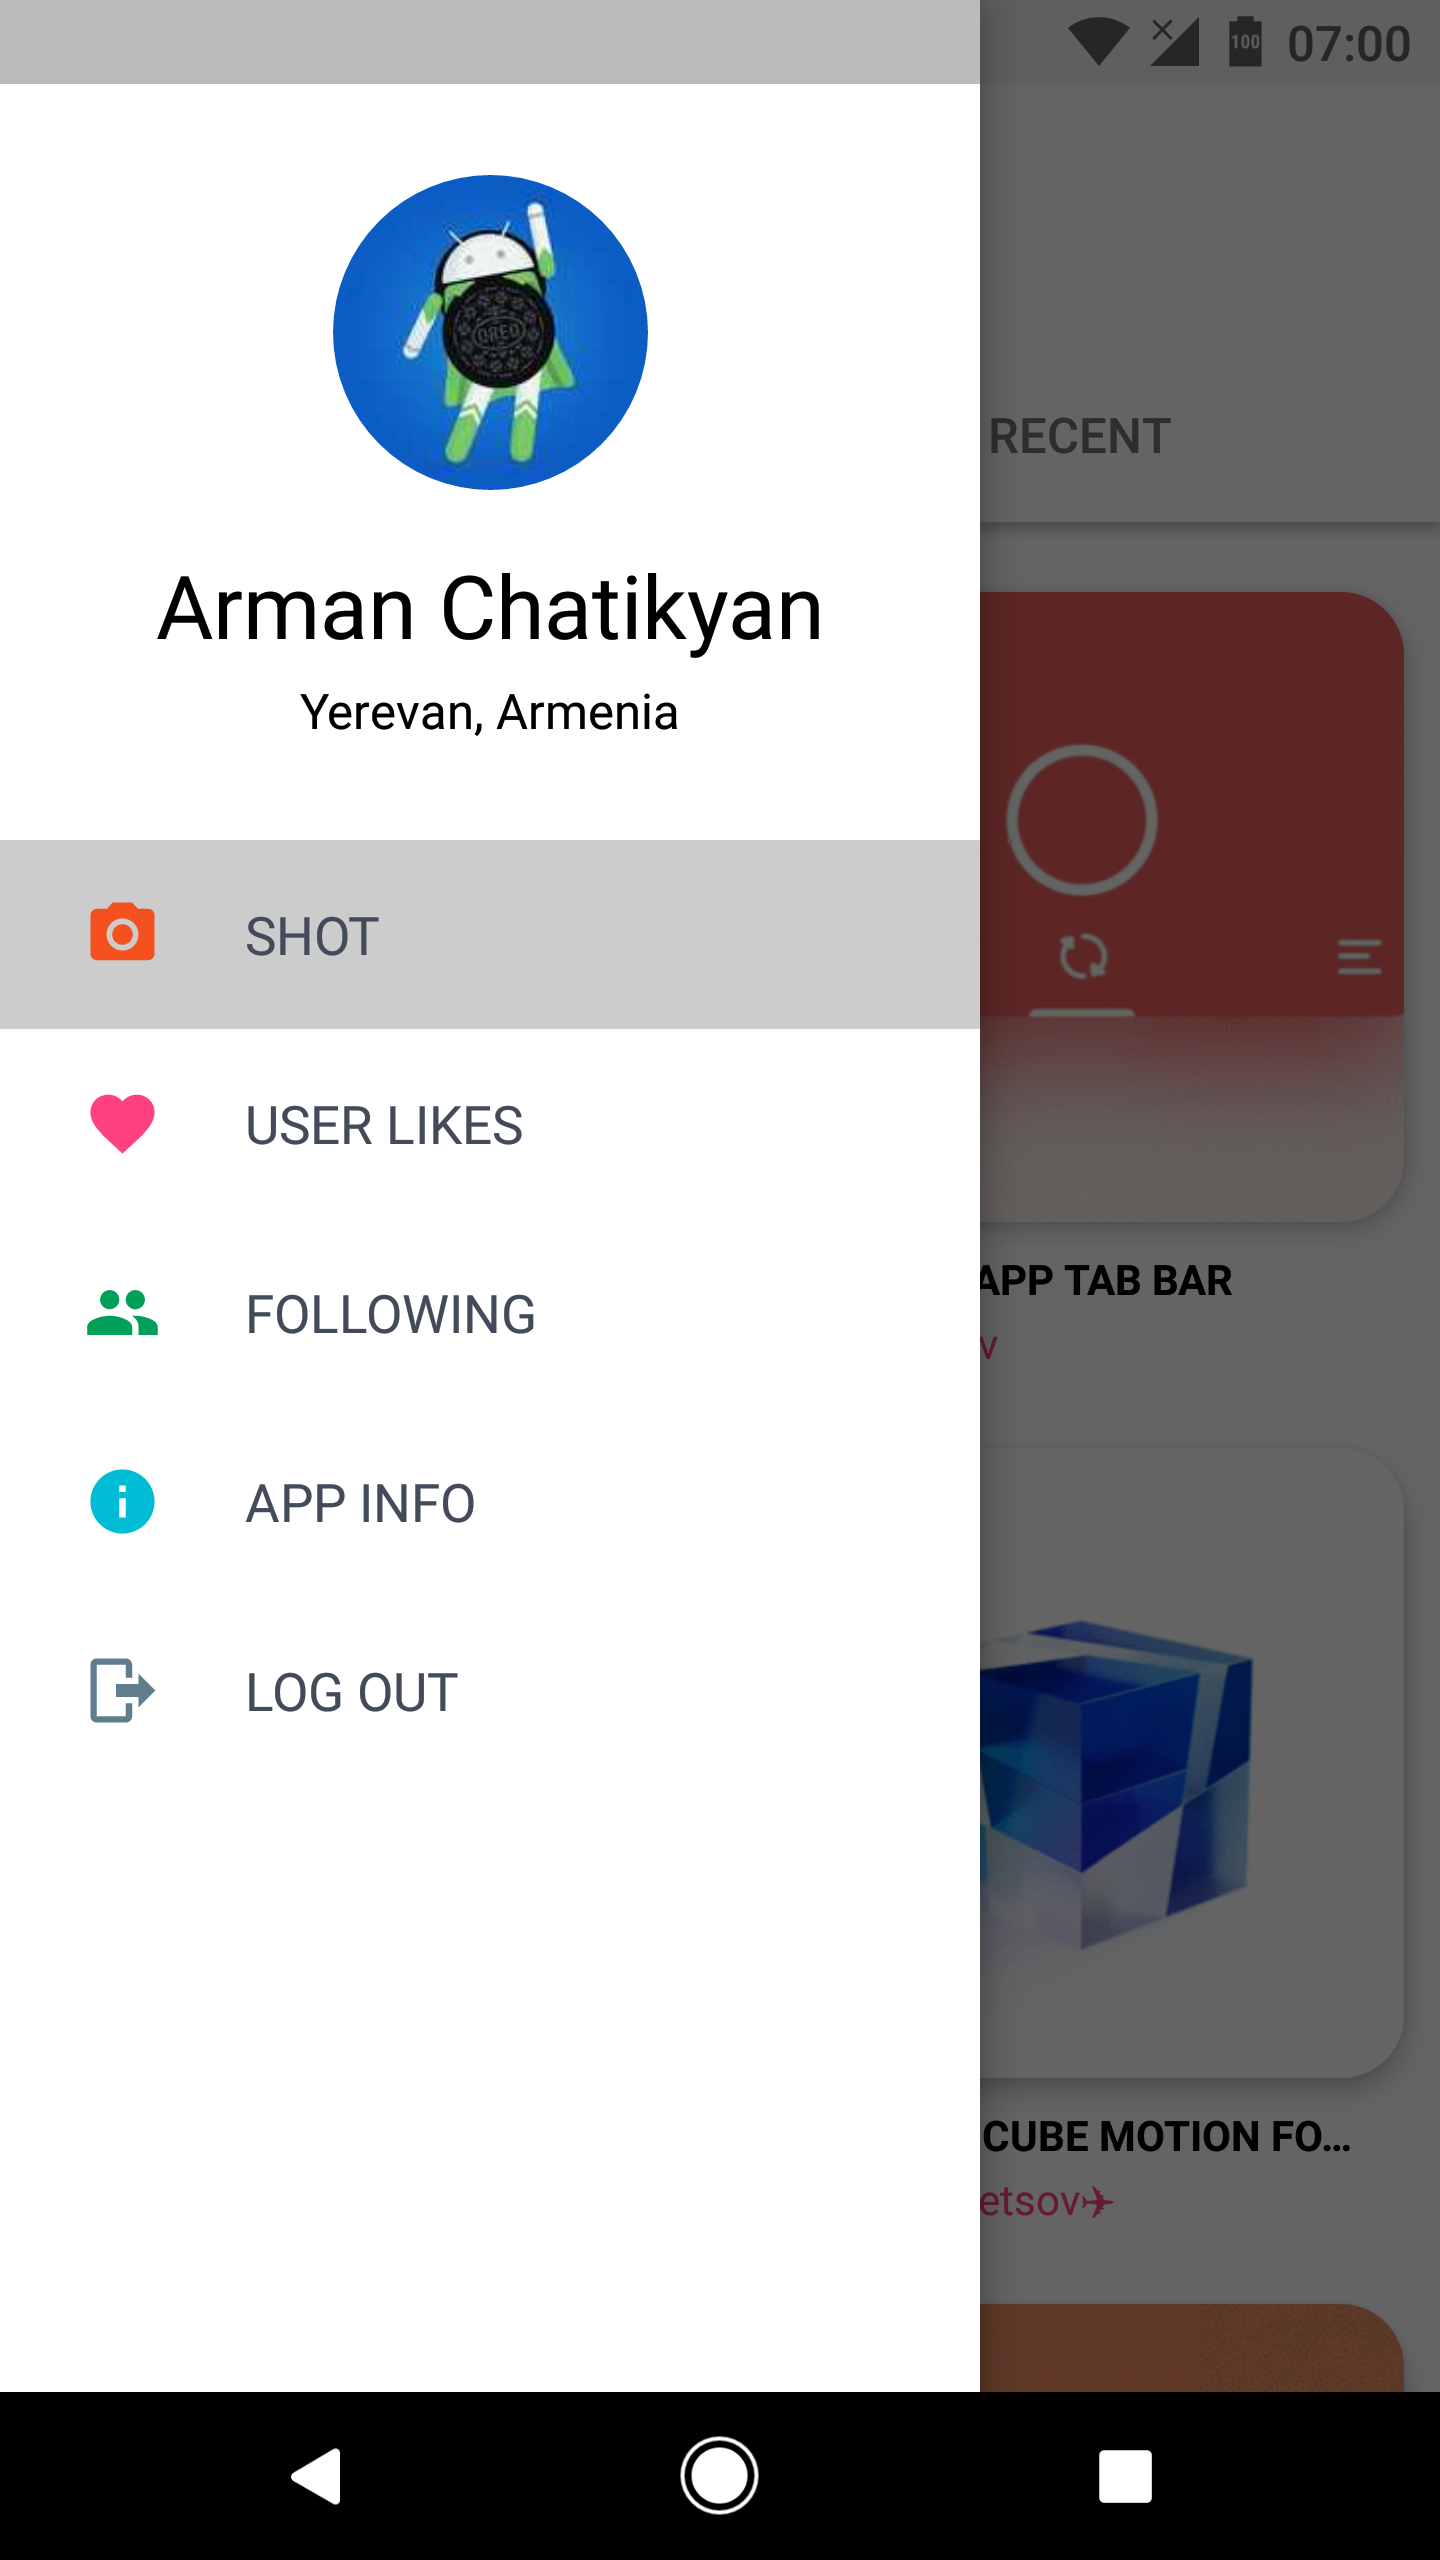
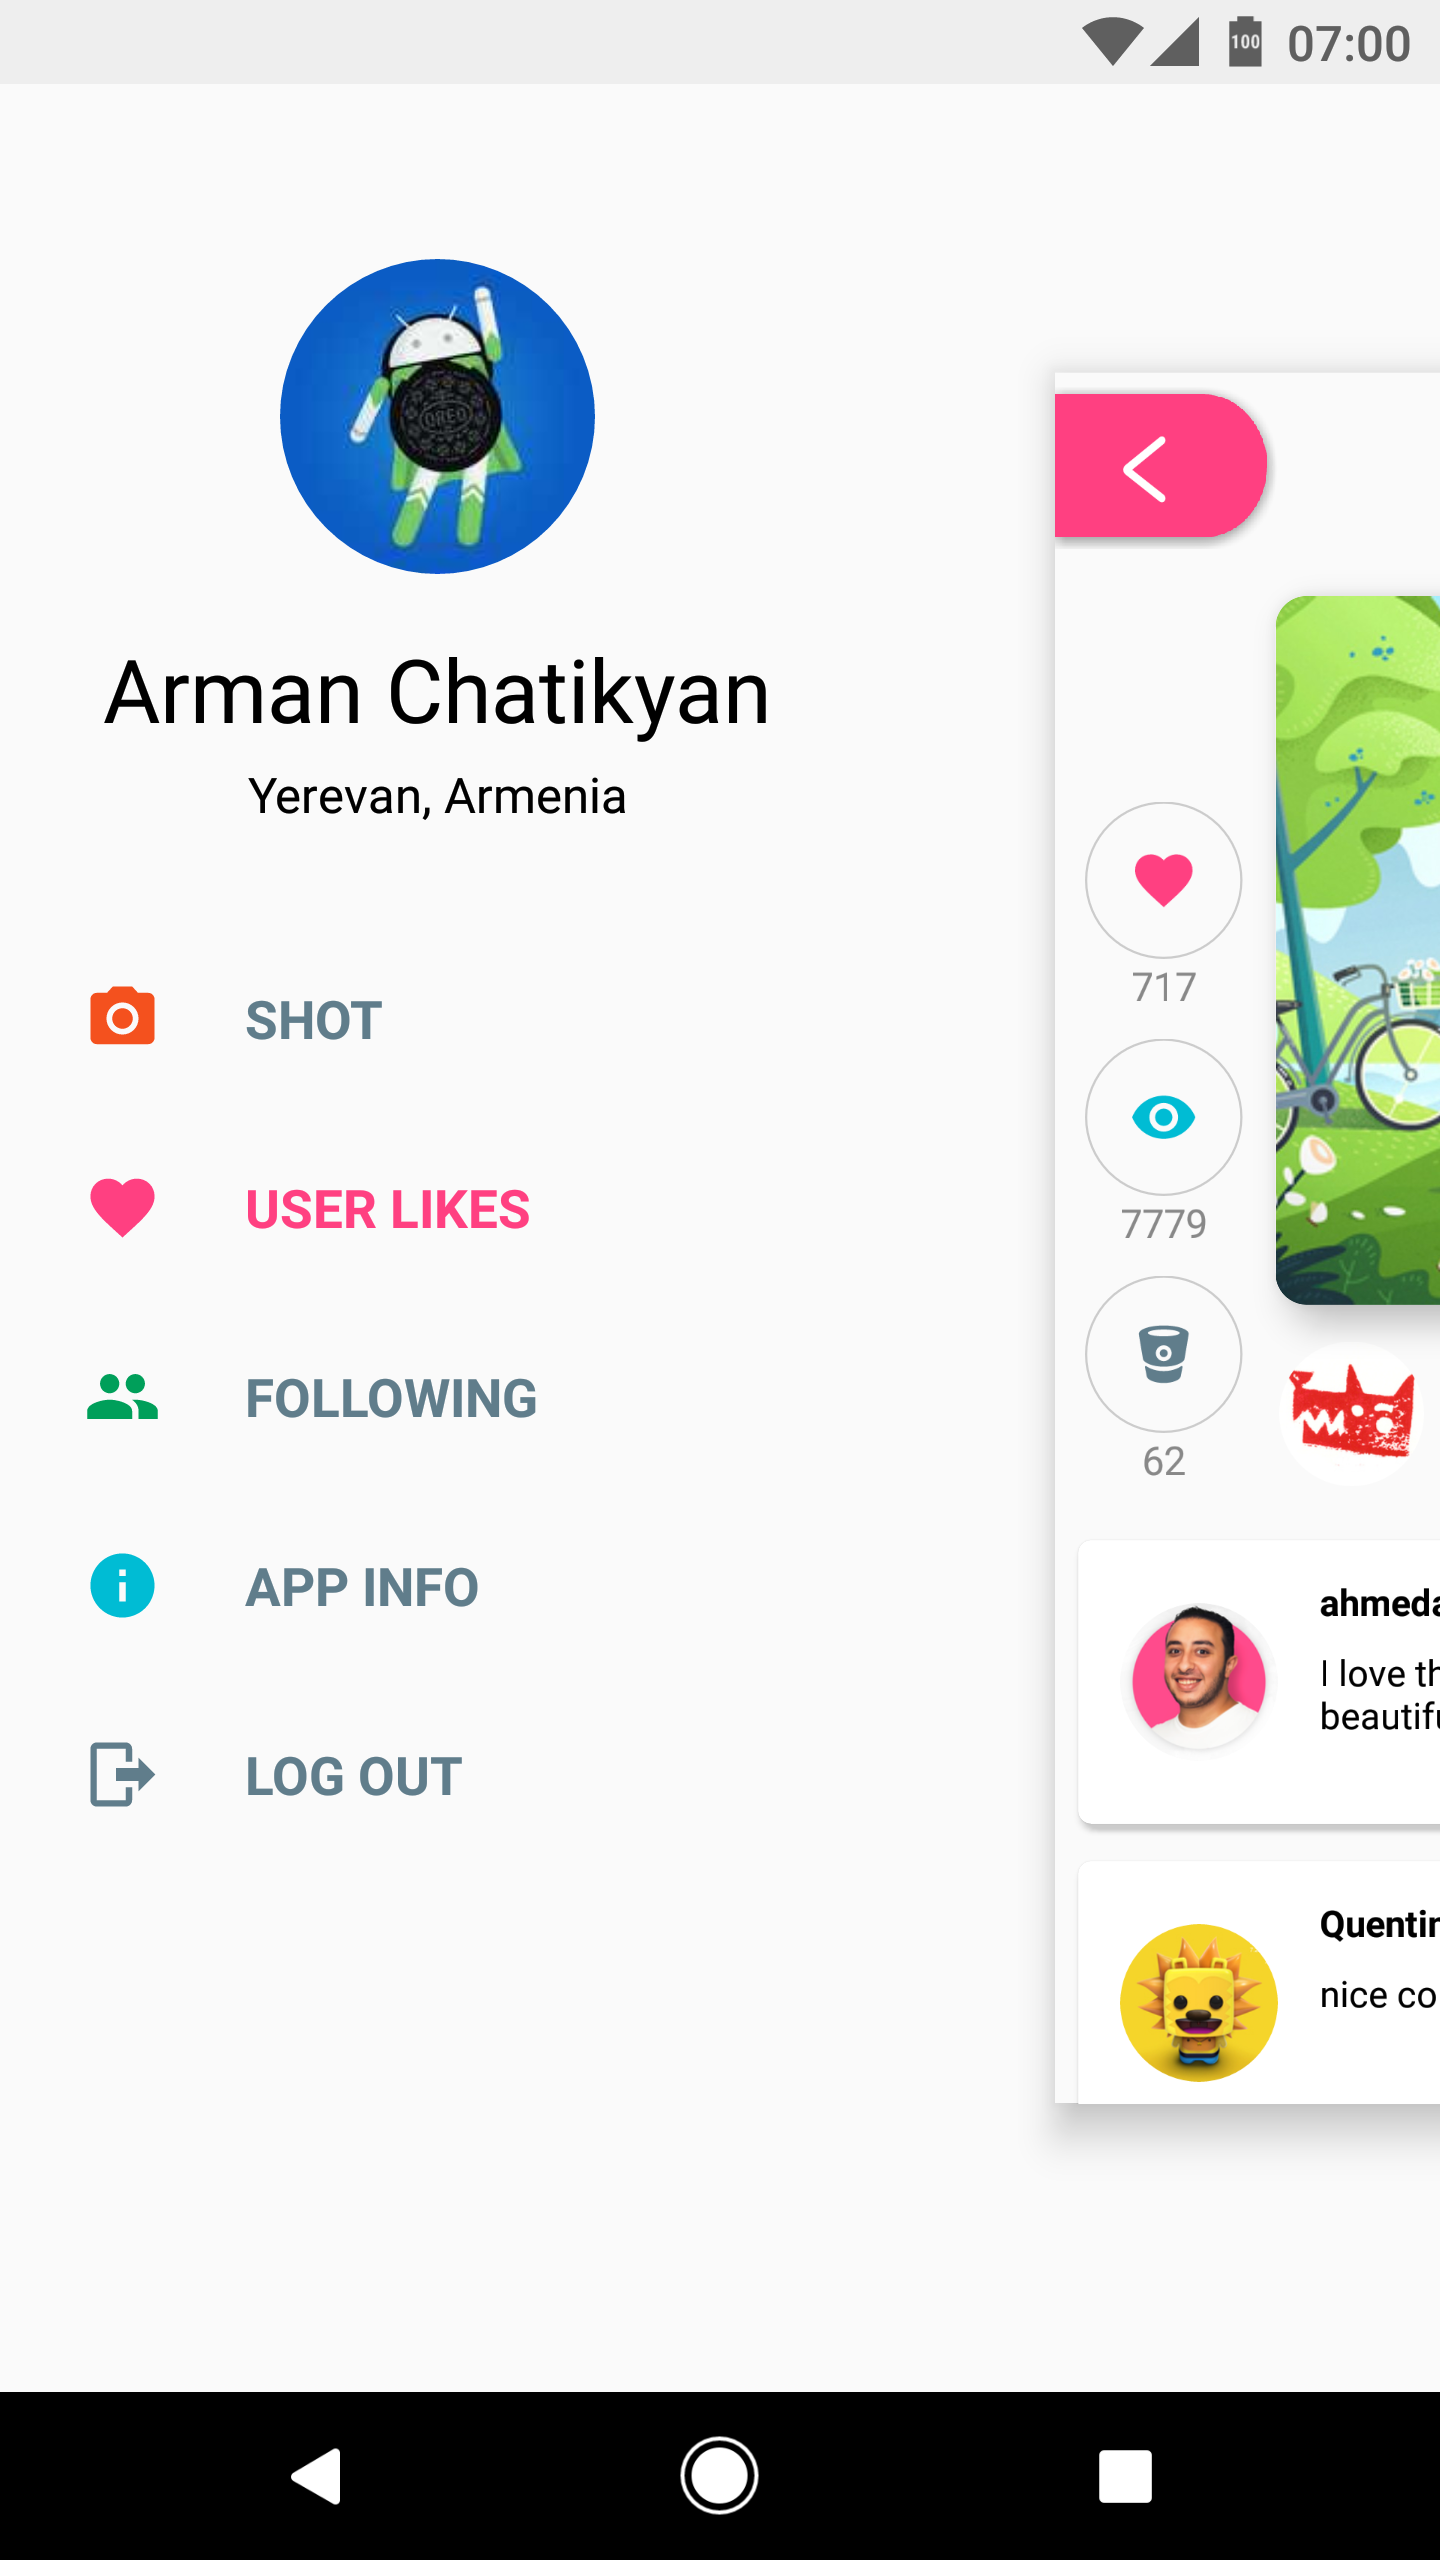
Added new art

diff --git a/app/src/main/kotlin/com/luseen/ribble/presentation/widget/navigation_view/NavigationDrawerView.kt b/app/src/main/kotlin/com/luseen/ribble/presentation/widget/navigation_view/NavigationDrawerView.kt
@@ -1,6 +1,7 @@
 package com.luseen.ribble.presentation.widget.navigation_view
 
 import android.content.Context
+import android.graphics.Color
 import android.os.Parcel
 import android.os.Parcelable
 import android.support.design.widget.NavigationView
@@ -12,10 +13,8 @@ import android.view.View
 import android.view.ViewGroup
 import android.widget.FrameLayout
 import com.luseen.ribble.R
-import com.luseen.ribble.presentation.utils.C
 import com.luseen.ribble.presentation.utils.extensions.delay
 import com.luseen.ribble.presentation.utils.extensions.nonSafeLazy
-import com.luseen.ribble.presentation.utils.extensions.takeColor
 
 /**
  * Created by Chatikyan on 20.08.2017.
@@ -55,7 +54,7 @@ class NavigationDrawerView : NavigationView, ItemClickListener {
     }
 
     init {
-        setBackgroundColor(context.takeColor(C.bg_color))
+        setBackgroundColor(Color.TRANSPARENT)
         val layoutParams = FrameLayout.LayoutParams(ViewGroup.LayoutParams.MATCH_PARENT,
                 ViewGroup.LayoutParams.MATCH_PARENT)
         layoutParams.topMargin = context.resources.getDimension(R.dimen.nav_header_height).toInt()

diff --git a/app/src/main/kotlin/com/luseen/ribble/presentation/utils/extensions/ViewEx.kt b/app/src/main/kotlin/com/luseen/ribble/presentation/utils/extensions/ViewEx.kt
@@ -3,6 +3,7 @@ package com.luseen.ribble.presentation.utils.extensions
 import android.annotation.SuppressLint
 import android.content.res.ColorStateList
 import android.graphics.PorterDuff
+import android.support.annotation.Px
 import android.support.v4.content.ContextCompat
 import android.view.LayoutInflater
 import android.view.View
@@ -32,12 +33,12 @@ var View.scale: Float
         scaleX = value
     }
 
-fun View.addTopMargin(marginInDp: Int) {
-    (layoutParams as ViewGroup.MarginLayoutParams).topMargin = marginInDp.toPx(context)
+fun View.addTopMargin(@Px marginInPx: Int) {
+    (layoutParams as ViewGroup.MarginLayoutParams).topMargin = marginInPx
 }
 
-fun View.addBottomMargin(marginInDp: Int) {
-    (layoutParams as ViewGroup.MarginLayoutParams).bottomMargin = marginInDp.toPx(context)
+fun View.addBottomMargin(@Px marginInPx: Int) {
+    (layoutParams as ViewGroup.MarginLayoutParams).bottomMargin = marginInPx
 }
 
 fun View.show() {

diff --git a/app/src/main/kotlin/com/luseen/ribble/presentation/screen/home/HomeActivity.kt b/app/src/main/kotlin/com/luseen/ribble/presentation/screen/home/HomeActivity.kt
@@ -105,6 +105,12 @@ class HomeActivity : BaseActivity<HomeContract.View, HomeContract.Presenter>(), 
             }
         })
         drawerLayout.setScrimColor(Color.TRANSPARENT)
+
+//        ViewCompat.setOnApplyWindowInsetsListener(mainView) { v, insets ->
+//            v.addTopMargin(insets.systemWindowInsetTop)
+//            navView.addBottomMargin(insets.systemWindowInsetBottom)
+//            insets
+//        }
     }
 
     override fun setArcArrowState() {

diff --git a/README.md b/README.md
@@ -9,7 +9,7 @@
 ## Simple Dribbble Client using Dribbble API, work in progress...
 
 ## Features
-:white_check_mark:  Kotlin: Yes, fully written in Kotlin(~95%). :scream: :heart: <br/>
+:white_check_mark:  Kotlin: Yes, fully written in Kotlin(~96%). :scream: :heart: <br/>
 :white_check_mark:  Clean architecture: The whole project is based on uncle Bob's clean architecture approach. <br/>
 :white_check_mark:  Configuration change: Handles configuration changes <br/>
 :white_check_mark:  Material Design: Not a fully Material Design App, but I am trying my best. <br/>
@@ -28,7 +28,10 @@
     
 ## TODO list:
 :white_large_square: Adding/removing favourite shot <br/>
-:white_large_square: Add user profile screen <br/>
+:white_large_square: User profile screen <br/>
+:white_large_square: Data base for offline use <br/>
+:white_large_square: Fonts <br/>
+:white_large_square: Endless scroll <br/>
 :white_large_square: Design improvements <br/>
 :white_large_square: Add unit tests & integration tests <br/> 
 :white_large_square: More features using Dribbble API <br/>
